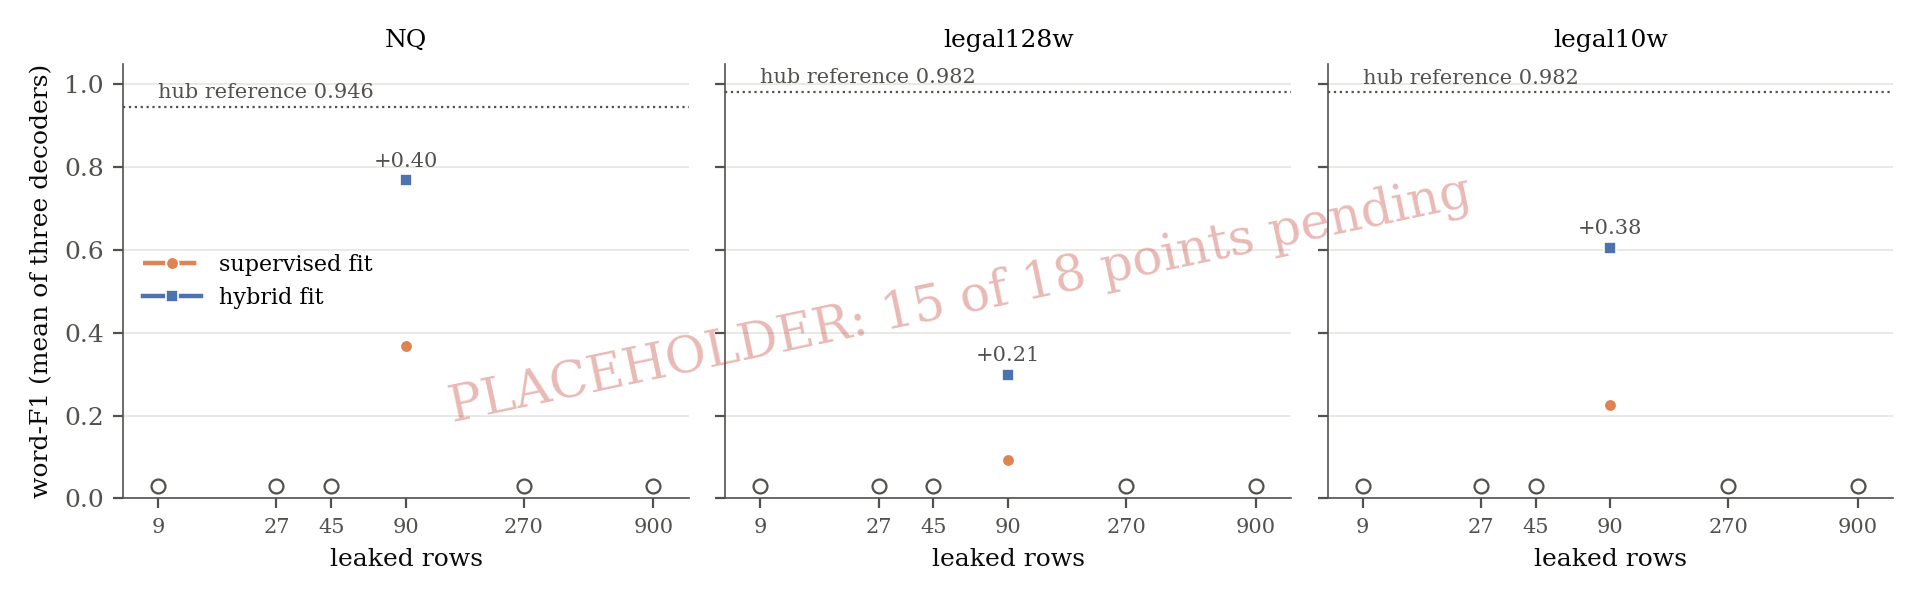
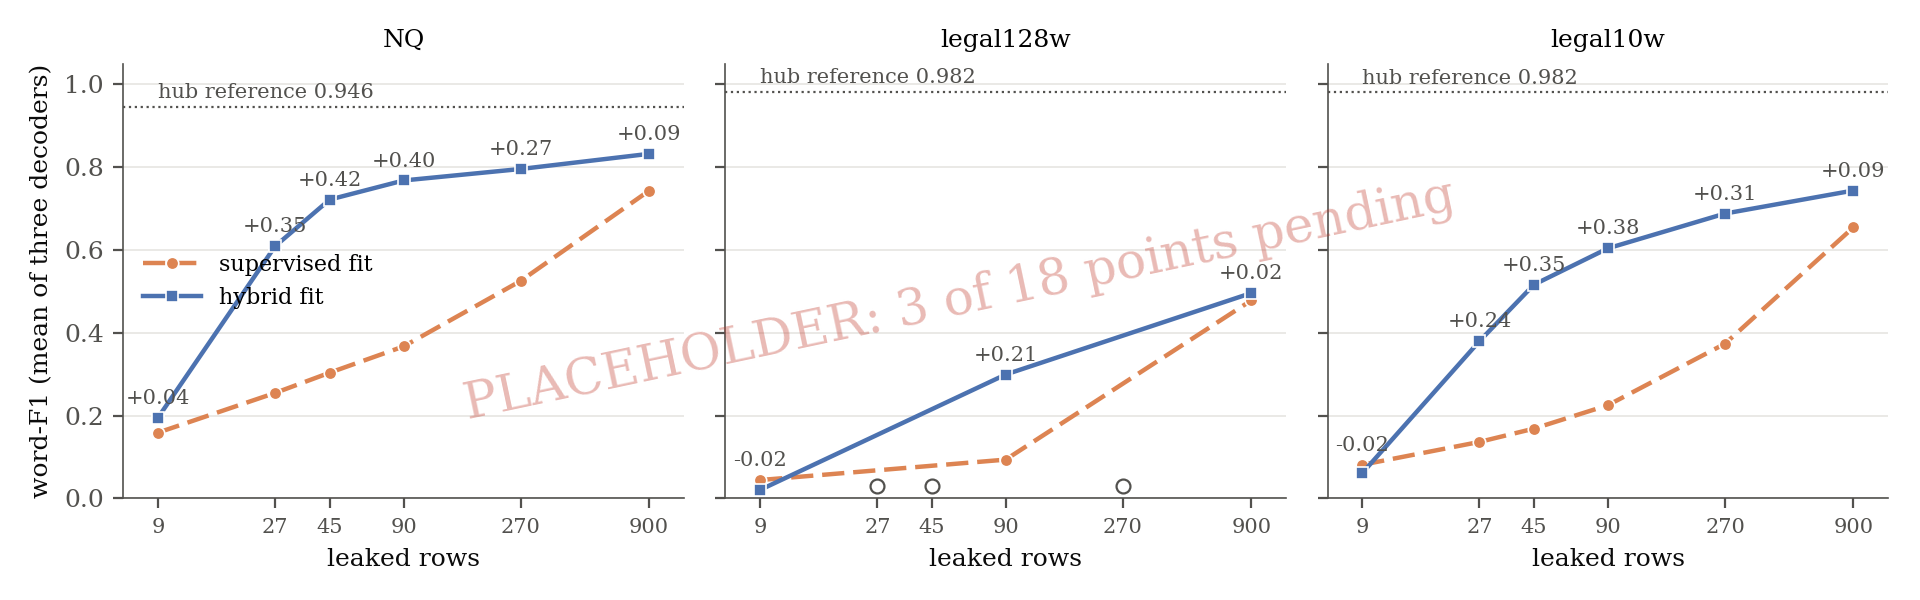
ch4 leak size: NQ and legal10w numbers at 9 to 900 rows filled in; legal128w 900-row point; legal128w contrast rewritten to the result; three legal128w points pending

diff --git a/chapters/ch4_weak_supervised_attack/draft_v2/ch4_attack.tex b/chapters/ch4_weak_supervised_attack/draft_v2/ch4_attack.tex
@@ -252,19 +252,22 @@ The result covers \vf{22} blind maps from two objectives, one target model, and 
 
 \subsection{Size of the leak}\label{sec:attack:budget}
 
-Matching helps most where the leak is small (Figure~\ref{fig:attack:budget}).
-%% PLACEHOLDER: the five new leak sizes run as jobs w46_leak_{nq,legal128w,legal10w}; every \vf{TBD} below is filled from results/<dataset>/v7_2/main/mixed-w46-std-L{9,27,45,270,900}.json
+Matching helps most on leaks of \vf{27} to \vf{270} rows (Figure~\ref{fig:attack:budget}).
 The comparison repeats the main comparison at six leak sizes, the first nine rows of \vf{1}, \vf{3}, \vf{5}, \vf{10}, \vf{30}, and \vf{100} prompts, or \vf{9} to \vf{900} rows. % src: configs/w46_{nq,legal128w,legal10w}_std_L{9,27,45,270,900}.yaml; src/v7_2/anchors_linear.py span_start_pairs
 The setting stays at $\alpha = 0.9$, $\tau = 2d$, and $B = 8{,}192$, with one seed on the selection prompts.
 At \vf{90} rows the curve passes through the main comparison, where seed \vf{1} gains \vf{0.401} on NQ, \vf{0.206} on legal128w, and \vf{0.379} on legal10w. % src: results/{v7_2,legal128w/v7_2,legal10w/v7_2}/main/mixed-w46-std.json seeds.1.cells (hybrid 0.7679, 0.2993, 0.6040; supervised 0.3671, 0.0938, 0.2251)
-Below \vf{90} rows, the gain is \vf{TBD} at \vf{9} rows and \vf{TBD} at \vf{45} rows on NQ, \vf{TBD} and \vf{TBD} on legal128w, and \vf{TBD} and \vf{TBD} on legal10w. % src: pending
-Above \vf{90} rows, the supervised fit rises with every added row, and the gain at \vf{900} rows is \vf{TBD} on NQ, \vf{TBD} on legal128w, and \vf{TBD} on legal10w. % src: pending
+On NQ, the gain is \vf{0.354} at \vf{27} rows, peaks at \vf{0.418} at \vf{45} rows, and falls to \vf{0.270} at \vf{270} rows and \vf{0.089} at \vf{900} rows. % src: results/v7_2/main/mixed-w46-std-L{27,45,270,900}.json seeds.1.cells (hybrid 0.6093, 0.7217, 0.7956, 0.8323; supervised 0.2549, 0.3037, 0.5255, 0.7434); job 1601532
+On legal10w, the gain is \vf{0.243} at \vf{27} rows, peaks at \vf{0.379} at \vf{90} rows, and falls to \vf{0.314} at \vf{270} rows and \vf{0.089} at \vf{900} rows. % src: results/legal10w/v7_2/main/mixed-w46-std-L{27,45,270,900}.json (hybrid 0.3799, 0.5163, 0.6880, 0.7437; supervised 0.1365, 0.1686, 0.3737, 0.6548; gain at 45 rows 0.348); job 1601534
+On legal128w, the gain is \vf{TBD} at \vf{27} rows, \vf{TBD} at \vf{45} rows, \vf{TBD} at \vf{270} rows, and \vf{0.018} at \vf{900} rows. % src: results/legal128w/v7_2/main/mixed-w46-std-L900.json (hybrid 0.4960, supervised 0.4783); L27, L45, L270 pending in job 1601533
+A leak of one prompt is too small for either fit.
+At \vf{9} rows the hybrid fit scores \vf{0.195} on NQ, a gain of \vf{0.036}, and on the two legal datasets it stays at the level of its mismatched-prompt control, at \vf{0.021} and \vf{0.061}. % src: mixed-w46-std-L9.json of each dataset (NQ hybrid 0.1951, supervised 0.1590; legal128w hybrid 0.0207, supervised 0.0445, control 0.023; legal10w hybrid 0.0613, supervised 0.0814, control 0.027)
+At \vf{900} rows the supervised fit has risen to \vf{0.743} on NQ and \vf{0.655} on legal10w, and little remains for matching to add.
 The setting was selected at \vf{90} rows, so the gain at \vf{900} rows describes that setting and not the best hybrid fit for a leak of that size.
 
 \begin{figure}[ht]
 \centering
 \includegraphics[width=\textwidth]{ch4/leak_size_three}
-\caption{PLACEHOLDER. On all three datasets the gain from matching is largest at leaks of \vf{TBD} rows and smallest at \vf{TBD} rows.
+\caption{PLACEHOLDER (three legal128w points pending). The gain from matching is largest at leaks of \vf{45} to \vf{90} rows and small at \vf{9} and \vf{900} rows.
 Word-F1 averaged over three decoders on the \vf{500} selection prompts, seed \vf{1}, for the supervised fit and the hybrid fit of the main comparison ($\alpha = 0.9$, $\tau = 2d$, $B = 8{,}192$); each leak holds the first nine rows of \vf{1} to \vf{100} prompts, and the number above each point is the gain.
 The dotted line is the hub reference.}
 \label{fig:attack:budget}
@@ -292,11 +295,11 @@ The content of the rows matters as well.
 A leak of stop words, or of one repeated word, leaves the hybrid fit at the level of the supervised fit, at \vf{0.058} against \vf{0.056} and \vf{0.054} against \vf{0.057}. % src: mixed-oct_w5-s1-L90.json cells *L90-stop (0.0582, 0.0555), *L90-one_word (0.0535, 0.0568)
 The comparison rests on one seed and does not separate the number of prompts from the content of the particular prompts drawn.
 
-The size of the leak in rows therefore does not fix its value, and legal128w shows the difference at larger leaks.
+At larger leaks the number of prompts no longer separates the two fits on legal128w.
 Ten whole prompts supply \vf{856} rows, and the hybrid fit of the main comparison scores \vf{0.501} against \vf{0.487} for the supervised fit. % src: results/legal128w/v7_2/main/mixed-v8_7-s1.json seeds.1.cells b10/a0.9/sq/m0/t0.1297/r1/B8192 (0.5006), b10/a1/r1 (0.4869); budgets.10.anchor_counts.valid_aligned_pairs (856)
-Nine rows from each of \vf{100} prompts supply \vf{900} rows, and the two fits score \vf{TBD} and \vf{TBD}. % src: pending, results/legal128w/v7_2/main/mixed-w46-std-L900.json
-With \vf{30} and \vf{100} whole prompts, the supervised fit overtakes the hybrid fit, at \vf{0.731} against \vf{0.613} and \vf{0.813} against \vf{0.654}. % src: same file, b30 and b100 cells (0.7307, 0.6131; 0.8133, 0.6544); 2,569 and 8,612 rows
-The two kinds of leak differ in the number of prompts and in the position of the rows within a prompt, so the comparison records the difference and leaves its cause open.
+Nine rows from each of \vf{100} prompts supply \vf{900} rows, and the two fits score \vf{0.496} and \vf{0.478}. % src: results/legal128w/v7_2/main/mixed-w46-std-L900.json seeds.1.cells (0.4960, 0.4783)
+The gain is below \vf{0.02} under both leaks, so at this size the fixed setting, and not the spread of the rows over prompts, limits the hybrid fit.
+With \vf{30} and \vf{100} whole prompts, the supervised fit overtakes the hybrid fit, at \vf{0.731} against \vf{0.613} and \vf{0.813} against \vf{0.654}. % src: mixed-v8_7-s1.json, b30 and b100 cells (0.7307, 0.6131; 0.8133, 0.6544); 2,569 and 8,612 rows
 
 \begin{figure}[ht]
 \centering

diff --git a/figures/scripts/make_figures.py b/figures/scripts/make_figures.py
@@ -423,7 +423,7 @@ def leak_size_span9():
         xs, sup, hyb = [], [], []
         for size in sizes:
             path = ROOT / root / ("mixed-w46-std.json" if size == 90 else f"mixed-w46-std-L{size}.json")
-            if not path.is_file():
+            if not path.is_file() or json.loads(path.read_text()).get("status") != "complete":
                 missing += 1
                 ax.plot([size], [0.03], marker="o", ms=5, mfc="none", mec=INK2, mew=0.8, ls="none")
                 continue
